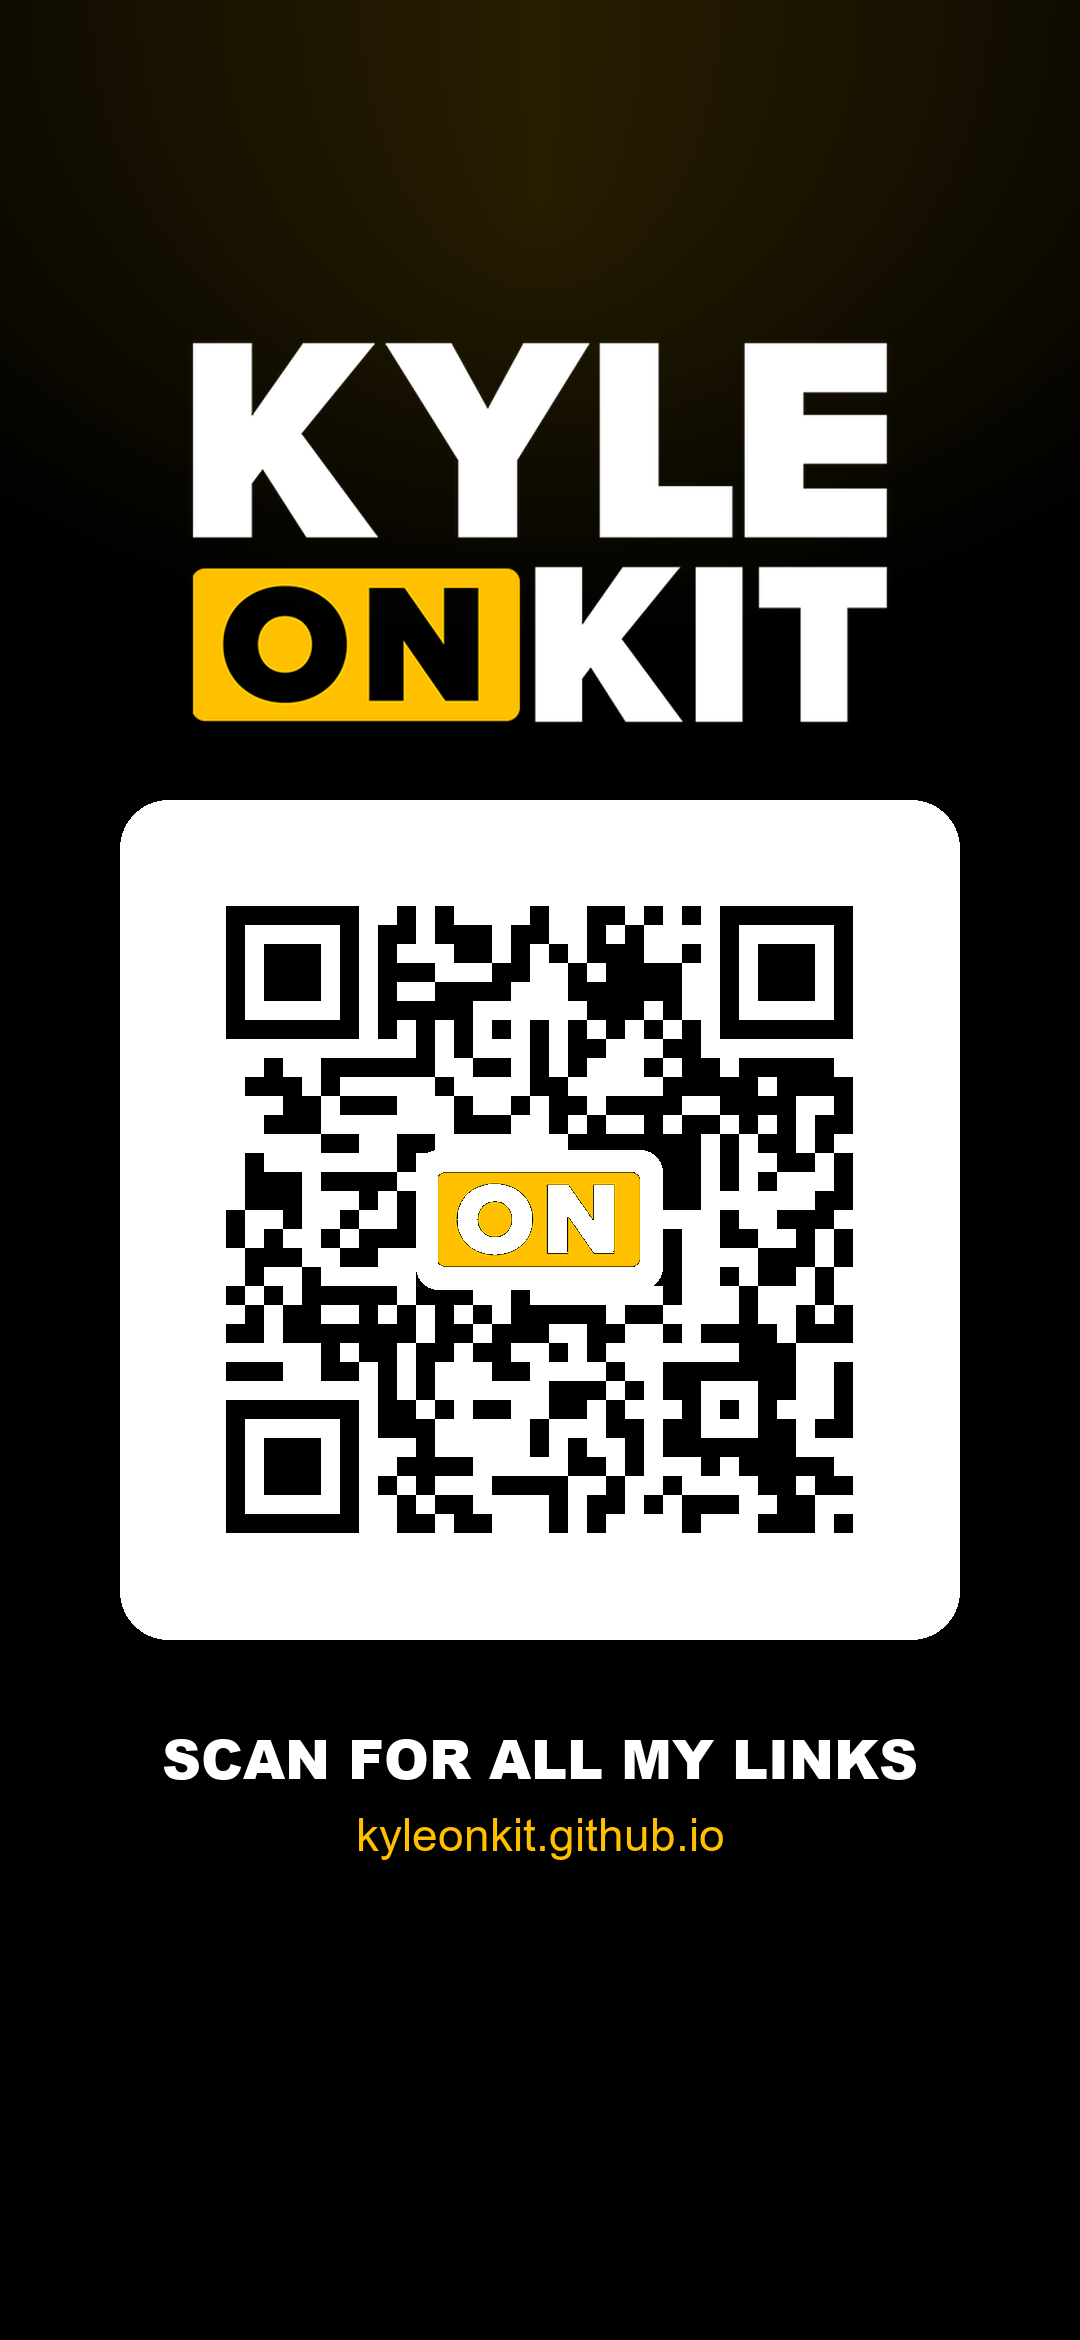
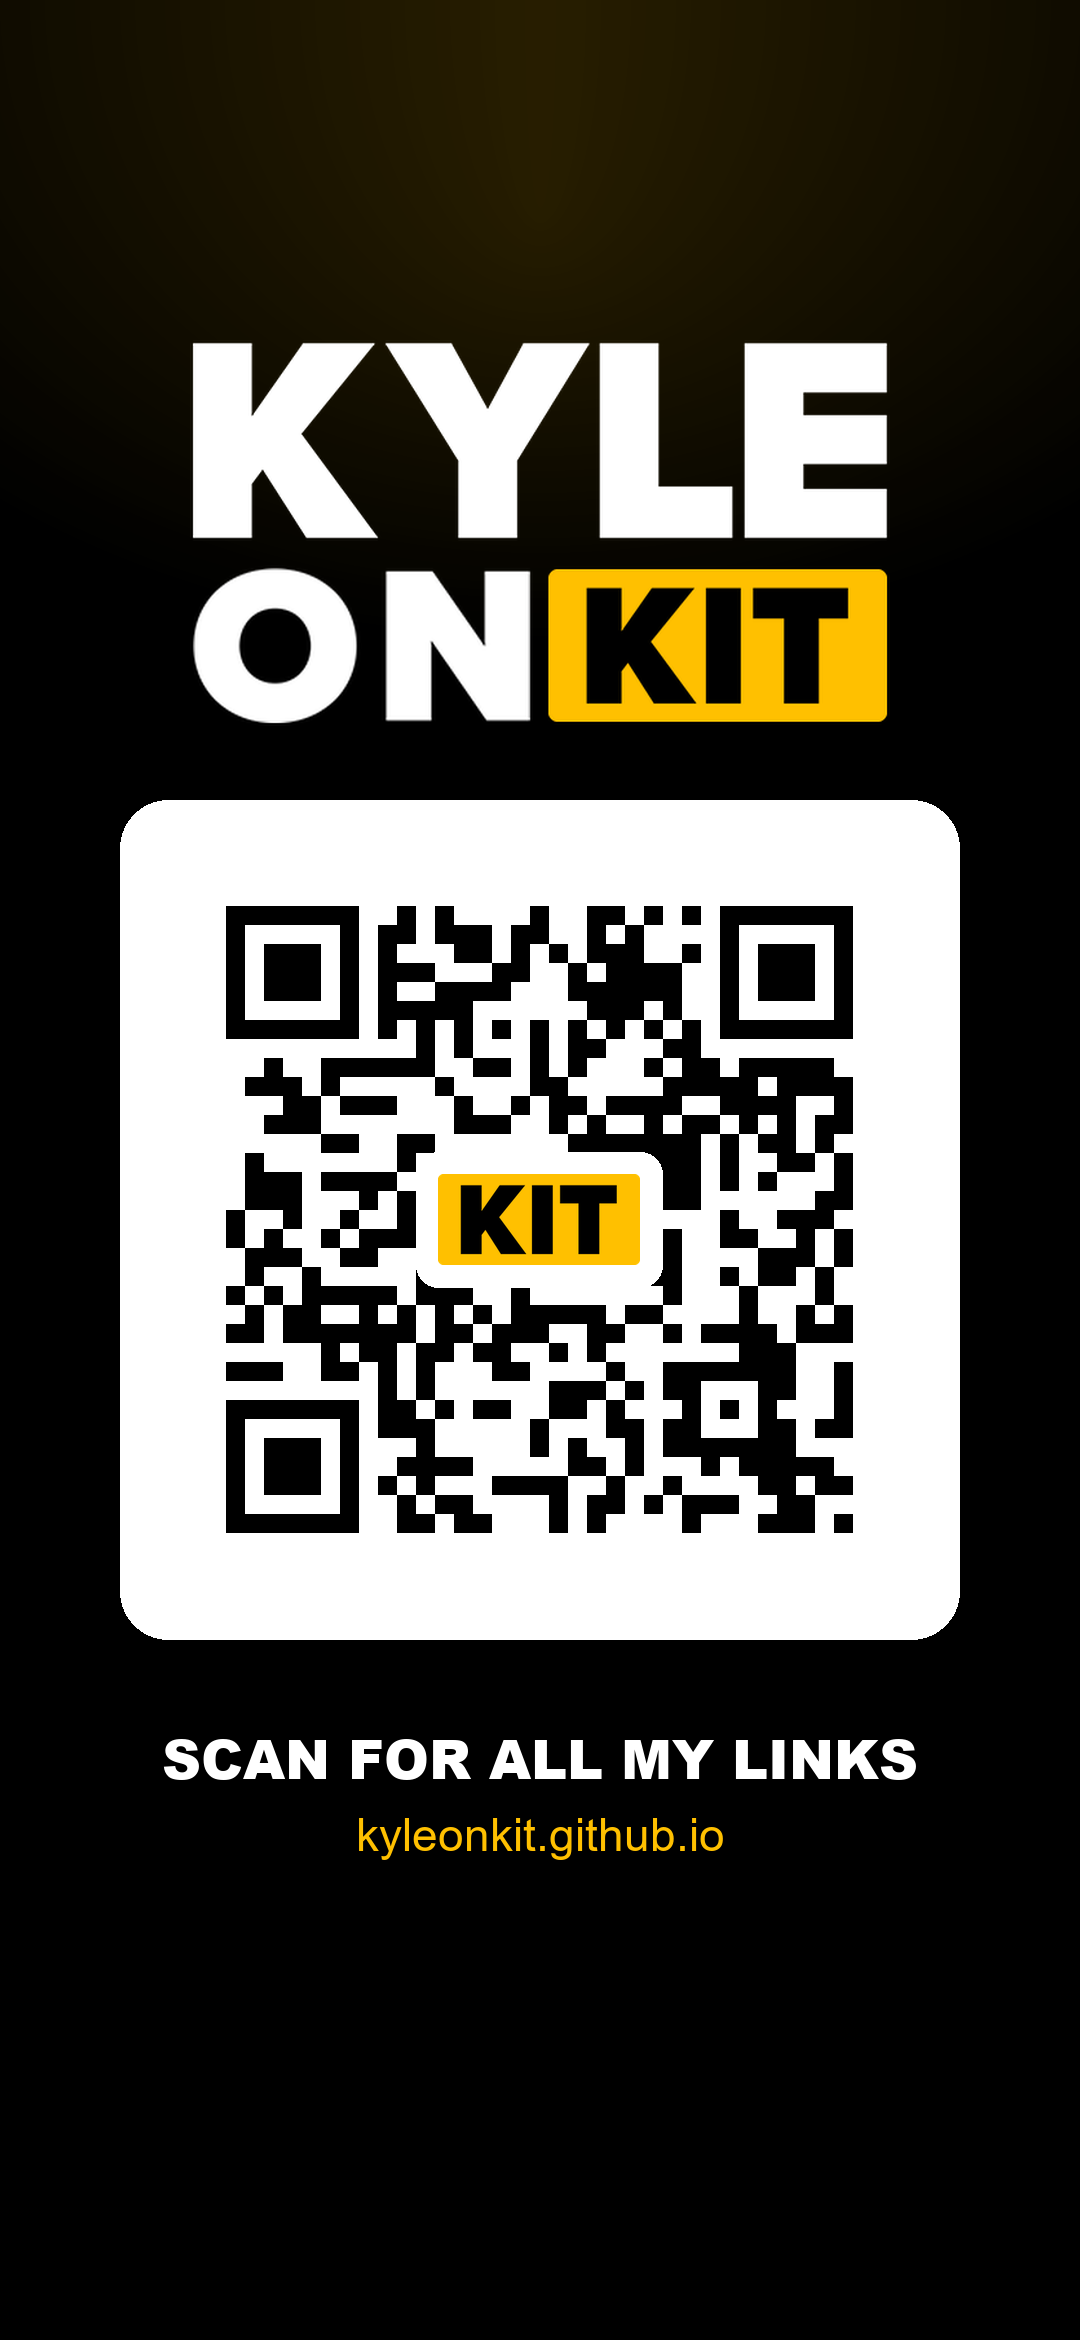
Rebrand: yellow block on KIT instead of ON

Changed region(s): [[0.1528, 0.2184, 0.825, 0.312], [0.3972, 0.4991, 0.5806, 0.5615]]

diff --git a/index.html b/index.html
@@ -8,21 +8,21 @@
   <meta name="theme-color" content="#000000">
   <meta property="og:title" content="Kyle on Kit">
   <meta property="og:description" content="Drummer | Audio/Video Engineer | Gig Vlogs">
-  <meta property="og:image" content="assets/og-image.png">
+  <meta property="og:image" content="assets/og-image.png?v=20261124122939">
   <meta property="og:type" content="website">
   <meta name="twitter:card" content="summary_large_image">
-  <link rel="icon" type="image/png" href="assets/favicon.png">
-  <link rel="apple-touch-icon" href="assets/favicon.png">
+  <link rel="icon" type="image/png" href="assets/favicon.png?v=20261124122939">
+  <link rel="apple-touch-icon" href="assets/favicon.png?v=20261124122939">
   <link rel="preconnect" href="https://fonts.googleapis.com">
   <link rel="preconnect" href="https://fonts.gstatic.com" crossorigin>
   <link href="https://fonts.googleapis.com/css2?family=Montserrat:wght@500;700;900&display=swap" rel="stylesheet">
-  <link rel="stylesheet" href="style.css?v=20261124114748">
+  <link rel="stylesheet" href="style.css?v=20261124122939">
 </head>
 <body>
   <div class="glow" aria-hidden="true"></div>
   <main class="wrap">
     <header class="head">
-      <h1 class="logo"><img src="assets/logo.png" alt="Kyle on Kit" width="557" height="314"></h1>
+      <h1 class="logo"><img src="assets/logo.png?v=20261124122939" alt="Kyle on Kit" width="557" height="314"></h1>
       <p class="tagline" id="tagline"></p>
       <nav class="socials" id="socials" aria-label="Social profiles"></nav>
     </header>
@@ -32,7 +32,7 @@
     <footer class="foot" id="footer"></footer>
   </main>
 
-  <script src="links.js?v=20261124114748"></script>
-  <script src="app.js?v=20261124114748"></script>
+  <script src="links.js?v=20261124122939"></script>
+  <script src="app.js?v=20261124122939"></script>
 </body>
 </html>

diff --git a/tools/make_brand.py b/tools/make_brand.py
@@ -1,0 +1,192 @@
+"""Generate every Kyle on Kit brand asset from assets/source-logo.png.
+
+Layout: KYLE (white) on line 1; line 2 = "ON" in white at full cap height,
+then "KIT" in black inside the yellow block.
+
+    python tools/make_brand.py [path/to/kyle-on-kit-qr-widget]
+
+Writes:
+  assets/logo.png, assets/badge.png, assets/favicon.png, assets/og-image.png
+  qr/kyleonkit-qr.png, qr/kyleonkit-qr-phone.png
+  (+ Android res drawables/icon if a widget project path is given)
+"""
+import os
+import sys
+
+import qrcode
+from PIL import Image, ImageDraw, ImageFont
+
+ROOT = os.path.dirname(os.path.dirname(os.path.abspath(__file__)))
+SRC = os.path.join(ROOT, "assets", "source-logo.png")
+URL = "https://kyleonkit.github.io"
+YELLOW = (255, 192, 0)
+
+# Measured from the 1280x720 source
+KYLE_BOX = (358, 213, 899, 368)     # white on black
+ON_BOX = (382, 402, 583, 496)       # black letters inside the old yellow block
+KIT_BOX = (623, 387, 899, 511)      # white on black
+LEFT, RIGHT = 360, 896              # text column
+LINE2_TOP, LINE2_H = 389, 120       # cap height of line 2
+BLOCK_TOP, BLOCK_H = 390, 118
+RADIUS = 7
+GAP = 14                            # between ON and the block
+INNER_H = 90                        # height of the word inside the block
+
+
+def alpha_glyphs(img, box, invert=False):
+    """Crop a region and return white glyphs on transparent, alpha from luminance."""
+    # Red channel: white=255, yellow=255, black=0 → clean mask for both cases
+    crop = img.crop(box).split()[0]
+    if invert:
+        crop = crop.point(lambda v: 255 - v)
+    out = Image.new("RGBA", crop.size, (255, 255, 255, 0))
+    out.putalpha(crop)
+    bbox = crop.point(lambda v: 255 if v > 24 else 0).getbbox()
+    return out.crop(bbox)
+
+
+def tint(glyphs, rgb):
+    solid = Image.new("RGBA", glyphs.size, rgb + (255,))
+    solid.putalpha(glyphs.split()[3])
+    return solid
+
+
+def scale_h(im, h):
+    return im.resize((round(im.width * h / im.height), h), Image.LANCZOS)
+
+
+def rounded_block(w, h, r, ss=4):
+    m = Image.new("L", (w * ss, h * ss), 0)
+    ImageDraw.Draw(m).rounded_rectangle([0, 0, w * ss - 1, h * ss - 1], radius=r * ss, fill=255)
+    m = m.resize((w, h), Image.LANCZOS)
+    b = Image.new("RGBA", (w, h), YELLOW + (255,))
+    b.putalpha(m)
+    return b
+
+
+def build_logo():
+    src = Image.open(SRC).convert("RGB")
+    kyle = alpha_glyphs(src, KYLE_BOX)
+    on = scale_h(alpha_glyphs(src, ON_BOX, invert=True), LINE2_H)
+    kit = scale_h(alpha_glyphs(src, KIT_BOX), INNER_H)
+
+    canvas = Image.new("RGBA", (1280, 720), (0, 0, 0, 0))
+    canvas.alpha_composite(kyle, (LEFT, 215))
+    canvas.alpha_composite(on, (LEFT, LINE2_TOP))
+
+    bx = LEFT + on.width + GAP
+    bw = RIGHT + 1 - bx
+    block = rounded_block(bw, BLOCK_H, RADIUS)
+    block.alpha_composite(tint(kit, (0, 0, 0)), ((bw - kit.width) // 2, (BLOCK_H - kit.height) // 2))
+    canvas.alpha_composite(block, (bx, BLOCK_TOP))
+
+    badge = block.copy()
+    logo = canvas.crop((350, 205, 907, 519))
+    return canvas, logo, badge
+
+
+def qr_image(badge, size, quiet=4):
+    q = qrcode.QRCode(error_correction=qrcode.constants.ERROR_CORRECT_H, box_size=1, border=0)
+    q.add_data(URL)
+    q.make(fit=True)
+    m = q.get_matrix()
+    cells = len(m) + quiet * 2
+    px = size // cells
+    size = px * cells
+    im = Image.new("RGB", (size, size), (255, 255, 255))
+    d = ImageDraw.Draw(im)
+    for y, row in enumerate(m):
+        for x, v in enumerate(row):
+            if v:
+                d.rectangle([(x + quiet) * px, (y + quiet) * px,
+                             (x + quiet + 1) * px - 1, (y + quiet + 1) * px - 1], fill=(0, 0, 0))
+    bw = int(size * 0.26)
+    b = badge.resize((bw, round(bw * badge.height / badge.width)), Image.LANCZOS)
+    pad = int(px * 1.2)
+    x0, y0 = (size - b.width) // 2, (size - b.height) // 2
+    d.rounded_rectangle([x0 - pad, y0 - pad, x0 + b.width + pad, y0 + b.height + pad], radius=pad, fill=(255, 255, 255))
+    im.paste(b, (x0, y0), b)
+    return im
+
+
+def font(sz, bold=True):
+    names = ["ariblk.ttf", "arialbd.ttf"] if bold else ["arial.ttf"]
+    for n in names:
+        try:
+            return ImageFont.truetype(os.path.join("C:/Windows/Fonts", n), sz)
+        except OSError:
+            pass
+    return ImageFont.load_default()
+
+
+def phone_card(logo, badge):
+    W, H = 1080, 2340
+    card = Image.new("RGB", (W, H), (0, 0, 0))
+    glow = Image.new("L", (W, H), 0)
+    gd = ImageDraw.Draw(glow)
+    for r in range(900, 0, -15):
+        gd.ellipse([W // 2 - r, -r // 2 - 200, W // 2 + r, r // 2 + 200], fill=int(40 * (1 - r / 900)))
+    card.paste(Image.new("RGB", (W, H), YELLOW), (0, 0), glow)
+    lw = 720
+    lg = logo.resize((lw, round(lw * logo.height / logo.width)), Image.LANCZOS)
+    card.paste(lg, ((W - lw) // 2, 330), lg)
+    q = qr_image(badge, 800)
+    qs = q.width
+    qx, qy = (W - qs) // 2, 830
+    d = ImageDraw.Draw(card)
+    d.rounded_rectangle([qx - 30, qy - 30, qx + qs + 30, qy + qs + 30], radius=48, fill=(255, 255, 255))
+    card.paste(q, (qx, qy))
+
+    def center(t, y, f, fill):
+        d.text(((W - d.textlength(t, font=f)) / 2, y), t, font=f, fill=fill)
+
+    center("SCAN FOR ALL MY LINKS", qy + qs + 110, font(54), (255, 255, 255))
+    center("kyleonkit.github.io", qy + qs + 200, font(46, False), YELLOW)
+    return card
+
+
+def square_icon(badge, size, fill=0.78):
+    sq = Image.new("RGB", (size, size), (0, 0, 0))
+    bw = int(size * fill)
+    b = badge.resize((bw, round(bw * badge.height / badge.width)), Image.LANCZOS)
+    sq.paste(b, ((size - b.width) // 2, (size - b.height) // 2), b)
+    return sq
+
+
+def main():
+    full, logo, badge = build_logo()
+    a = lambda *p: os.path.join(ROOT, *p)
+    os.makedirs(a("qr"), exist_ok=True)
+
+    logo.save(a("assets", "logo.png"), optimize=True)
+    badge.save(a("assets", "badge.png"))
+    square_icon(badge, 256).save(a("assets", "favicon.png"))
+    og = Image.new("RGB", full.size, (0, 0, 0))
+    og.paste(full, (0, 0), full)
+    og.save(a("assets", "og-image.png"), optimize=True)
+
+    qr_square = qr_image(badge, 1200)
+    qr_square.save(a("qr", "kyleonkit-qr.png"))
+    phone_card(logo, badge).save(a("qr", "kyleonkit-qr-phone.png"))
+    print("site assets + QR written")
+
+    if len(sys.argv) > 1:
+        res = os.path.join(sys.argv[1], "app", "src", "main", "res")
+        dn = os.path.join(res, "drawable-nodpi")
+        logo.save(os.path.join(dn, "logo.png"))
+        q = qr_square.convert("RGBA")
+        n = q.width
+        m = Image.new("L", q.size, 0)
+        ImageDraw.Draw(m).rounded_rectangle([0, 0, n - 1, n - 1], radius=n // 14, fill=255)
+        q.putalpha(m)
+        q.resize((900, 900), Image.LANCZOS).save(os.path.join(dn, "qr.png"))
+        qr_square.resize((400, 400), Image.LANCZOS).save(os.path.join(dn, "widget_preview.png"))
+        for d, s in {"mdpi": 48, "hdpi": 72, "xhdpi": 96, "xxhdpi": 144, "xxxhdpi": 192}.items():
+            p = os.path.join(res, "mipmap-" + d)
+            os.makedirs(p, exist_ok=True)
+            square_icon(badge, s).save(os.path.join(p, "ic_launcher.png"))
+        print("android res written")
+
+
+if __name__ == "__main__":
+    main()
